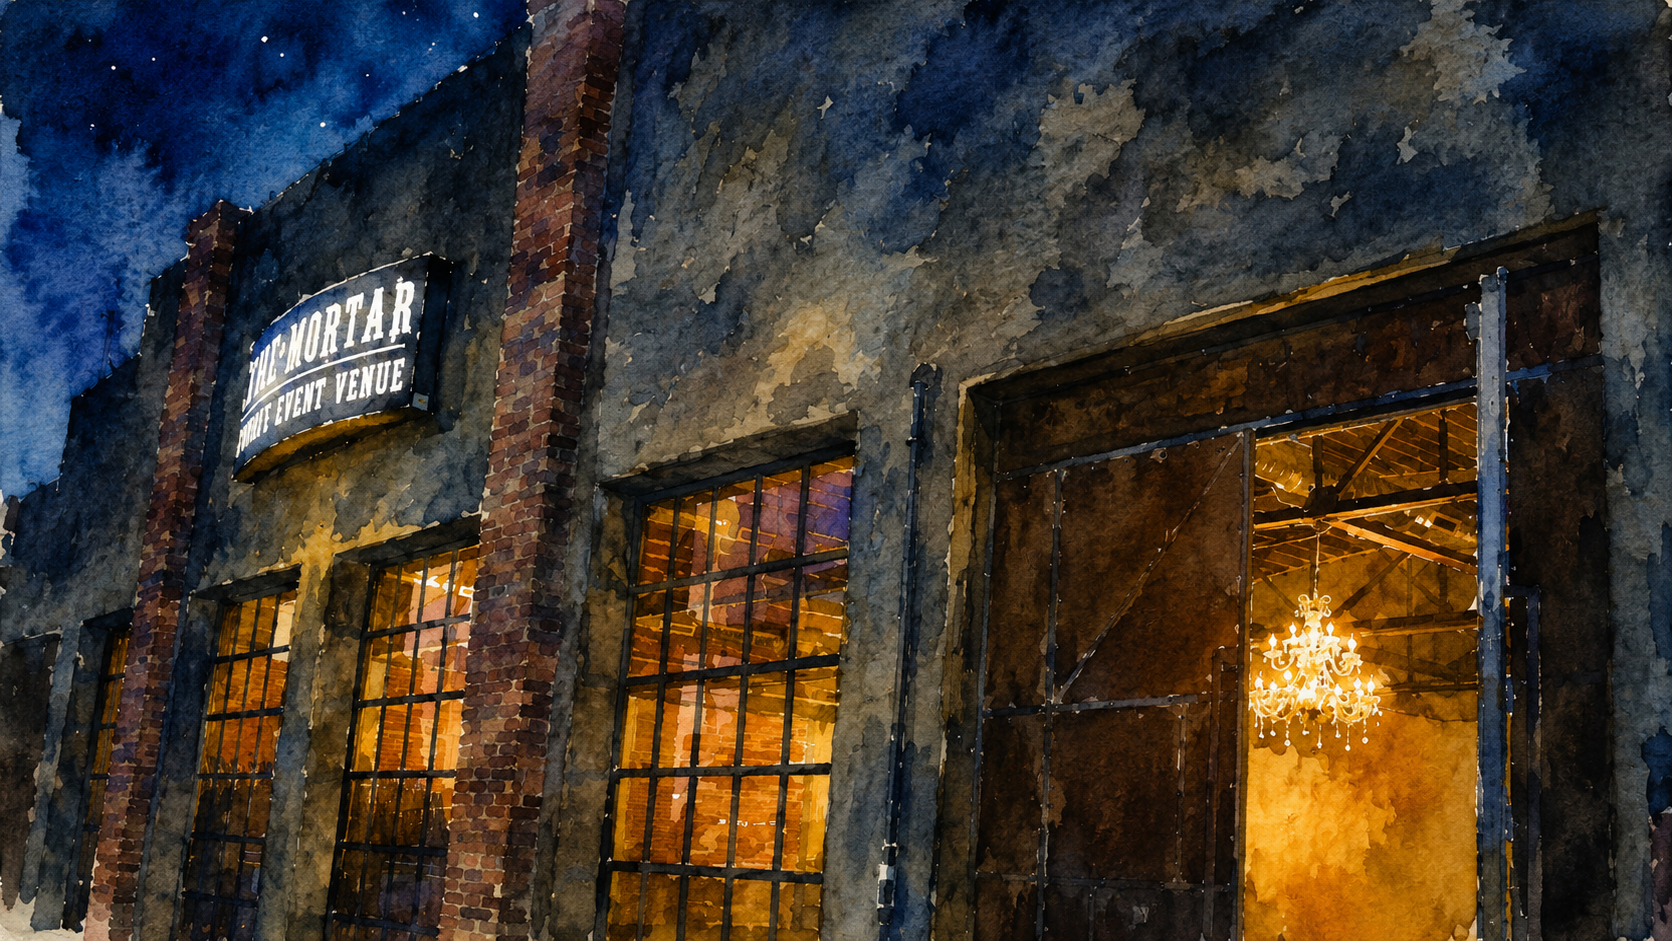
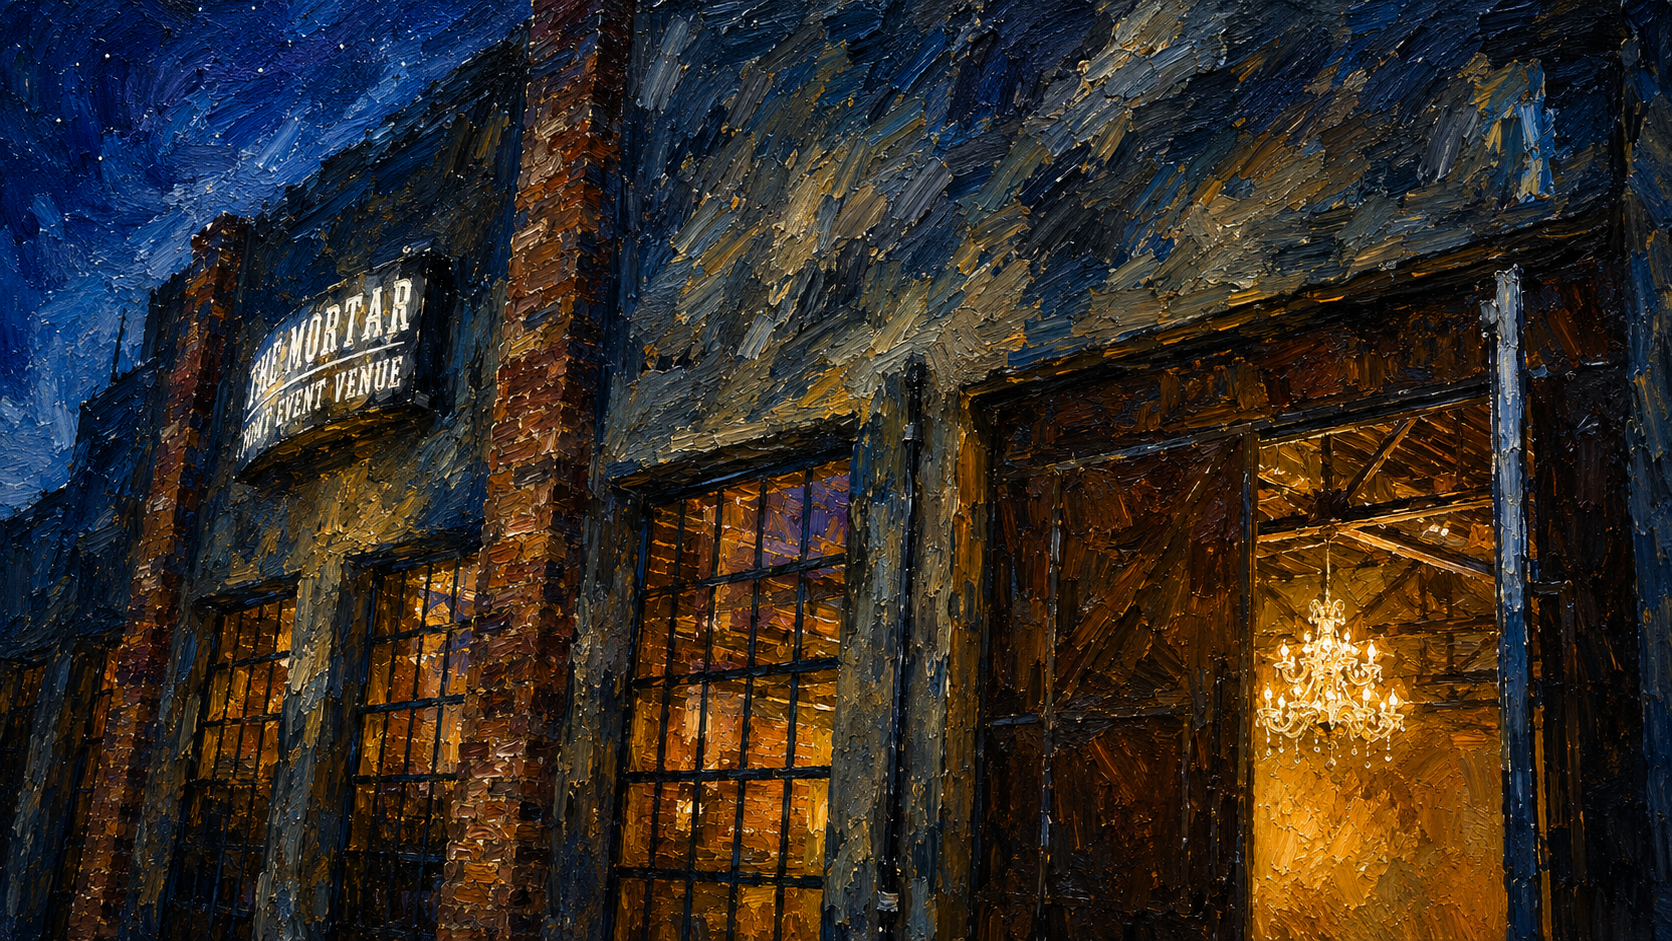
Replace watercolor images with oil paintings and add mirror hero
- Hero: swap plaster texture for mirror welcome sign, hide redundant text overlay
- Church: replace watercolor interior/exterior with oil paintings
- Reception: replace watercolor Brick & Mortar exterior and pavilion with oil paintings
- Cover art: swap to oil painting church exterior at night
- Update all og:image references from .jpg to .png
- Move source ChatGPT images to _archive

https://claude.ai/code/session_01RaWm7QXG7kyUcbVbn8H8Z4

diff --git a/styles.css b/styles.css
@@ -82,7 +82,7 @@
   .cover-art {
     position: absolute;
     inset: 0;
-    background-image: url(/images/main-1.jpg);
+    background-image: url(/images/main-1.png);
     background-size: contain;
     background-position: center 62%;
     background-repeat: no-repeat;
@@ -313,7 +313,7 @@
     position: relative;
     min-height: 100vh;
     width: 100%;
-    background: #f5f5f5;
+    background: #1a1610;
     overflow: hidden;
     display: flex;
     align-items: center;
@@ -322,7 +322,7 @@
   .hero-bg {
     position: absolute;
     inset: 0;
-    background-image: url(/images/plaster.png);
+    background-image: url(/images/hero-mirror.png);
     background-size: cover;
     background-position: center center;
     background-repeat: no-repeat;
@@ -338,8 +338,8 @@
     position: absolute;
     inset: 0;
     background:
-      radial-gradient(ellipse 80% 60% at 50% 50%, transparent 0%, rgba(245,245,245,0.5) 70%, rgba(245,245,245,0.92) 100%),
-      linear-gradient(180deg, rgba(245,245,245,0.4) 0%, transparent 25%, transparent 70%, rgba(245,245,245,0.95) 100%);
+      radial-gradient(ellipse 80% 60% at 50% 50%, transparent 0%, rgba(26,22,16,0.15) 70%, rgba(26,22,16,0.6) 100%),
+      linear-gradient(180deg, rgba(26,22,16,0.3) 0%, transparent 25%, transparent 70%, rgba(26,22,16,0.7) 100%);
     z-index: 1;
     pointer-events: none;
     opacity: 0;
@@ -349,6 +349,13 @@
     position: relative; z-index: 3;
     text-align: center; padding: 0 32px;
     max-width: 800px;
+    /* Visually hidden — mirror image contains the text; kept for screen readers */
+    clip: rect(0 0 0 0);
+    clip-path: inset(50%);
+    height: 1px;
+    width: 1px;
+    overflow: hidden;
+    white-space: nowrap;
     opacity: 0;
   }
   body.entered .hero-inner { animation: heroTextFade 1800ms ease-out 1400ms forwards; }
@@ -668,15 +675,14 @@
   }
   .ceremony-bleed .art-bg {
     width: 100%;
-    height: auto;
+    height: 100%;
     display: block;
-    mix-blend-mode: multiply;
-    filter: contrast(1.02);
+    object-fit: cover;
   }
   .ceremony-bleed .overlay {
     position: absolute;
     inset: 0;
-    background: linear-gradient(180deg, rgba(245,245,245,0.7) 0%, transparent 25%, transparent 70%, rgba(245,245,245,0.95) 100%);
+    background: linear-gradient(180deg, rgba(0,0,0,0.3) 0%, rgba(0,0,0,0.1) 25%, rgba(0,0,0,0.1) 70%, rgba(0,0,0,0.4) 100%);
     pointer-events: none;
   }
   .ceremony-bleed .content {

diff --git a/ceremony.html b/ceremony.html
@@ -21,13 +21,13 @@
 <meta property="og:title" content="The Wedding Day — Laura &amp; William" />
 <meta property="og:description" content="Saturday, the twentieth of March — ceremony at four o'clock, reception to follow. Central Chapel &amp; Odd Fellow, Wichita, Kansas." />
 <meta property="og:url" content="https://becoming-bergkamp.vercel.app/ceremony" />
-<meta property="og:image" content="https://becoming-bergkamp.vercel.app/images/main-2.jpg" />
+<meta property="og:image" content="https://becoming-bergkamp.vercel.app/images/main-2.png" />
 <meta property="og:locale" content="en_US" />
 
 <meta name="twitter:card" content="summary_large_image" />
 <meta name="twitter:title" content="The Wedding Day — Laura &amp; William" />
 <meta name="twitter:description" content="Saturday, the twentieth of March — ceremony at four o'clock, reception to follow. Central Chapel &amp; Odd Fellow, Wichita, Kansas." />
-<meta name="twitter:image" content="https://becoming-bergkamp.vercel.app/images/main-2.jpg" />
+<meta name="twitter:image" content="https://becoming-bergkamp.vercel.app/images/main-2.png" />
 
 <link rel="preconnect" href="https://fonts.googleapis.com" />
 <link rel="preconnect" href="https://fonts.gstatic.com" crossorigin />
@@ -57,7 +57,7 @@
 
   <!-- CEREMONY -->
   <section id="ceremony" class="ceremony-bleed">
-    <img class="art-bg" src="/images/main-3.jpg" alt="Chapel daytime exterior" loading="lazy" decoding="async" />
+    <img class="art-bg" src="/images/main-3.png" alt="Chapel interior with stained glass window" loading="lazy" decoding="async" />
     <div class="overlay"></div>
 
     <div class="content">
@@ -92,7 +92,7 @@
   <section class="lattice-section">
     <div class="lattice-grid">
       <div class="art-pane">
-        <img src="/images/main-4.jpg" alt="Chapel entryway with lattice windows" loading="lazy" decoding="async" />
+        <img src="/images/main-4.png" alt="Chapel exterior at sunset with lattice windows" loading="lazy" decoding="async" />
       </div>
       <div class="text-pane">
         <div class="kicker">A Detail</div>

diff --git a/honeymoon.html b/honeymoon.html
@@ -21,13 +21,13 @@
 <meta property="og:title" content="The Honeymoon — Laura &amp; William" />
 <meta property="og:description" content="In lieu of a gift — a contribution toward the honeymoon coastline." />
 <meta property="og:url" content="https://becoming-bergkamp.vercel.app/honeymoon" />
-<meta property="og:image" content="https://becoming-bergkamp.vercel.app/images/main-2.jpg" />
+<meta property="og:image" content="https://becoming-bergkamp.vercel.app/images/main-2.png" />
 <meta property="og:locale" content="en_US" />
 
 <meta name="twitter:card" content="summary_large_image" />
 <meta name="twitter:title" content="The Honeymoon — Laura &amp; William" />
 <meta name="twitter:description" content="In lieu of a gift — a contribution toward the honeymoon coastline." />
-<meta name="twitter:image" content="https://becoming-bergkamp.vercel.app/images/main-2.jpg" />
+<meta name="twitter:image" content="https://becoming-bergkamp.vercel.app/images/main-2.png" />
 
 <link rel="preconnect" href="https://fonts.googleapis.com" />
 <link rel="preconnect" href="https://fonts.gstatic.com" crossorigin />

diff --git a/index.html b/index.html
@@ -22,14 +22,14 @@
 <meta property="og:title" content="Laura &amp; William — 20 March 2027" />
 <meta property="og:description" content="A wedding celebration in Wichita, Kansas." />
 <meta property="og:url" content="https://becoming-bergkamp.vercel.app/" />
-<meta property="og:image" content="https://becoming-bergkamp.vercel.app/images/main-2.jpg" />
+<meta property="og:image" content="https://becoming-bergkamp.vercel.app/images/main-2.png" />
 <meta property="og:locale" content="en_US" />
 
 <!-- Twitter -->
 <meta name="twitter:card" content="summary_large_image" />
 <meta name="twitter:title" content="Laura &amp; William — 20 March 2027" />
 <meta name="twitter:description" content="A wedding celebration in Wichita, Kansas." />
-<meta name="twitter:image" content="https://becoming-bergkamp.vercel.app/images/main-2.jpg" />
+<meta name="twitter:image" content="https://becoming-bergkamp.vercel.app/images/main-2.png" />
 
 <!-- Fonts -->
 <link rel="preconnect" href="https://fonts.googleapis.com" />

diff --git a/rsvp.html b/rsvp.html
@@ -21,13 +21,13 @@
 <meta property="og:title" content="RSVP — Laura &amp; William" />
 <meta property="og:description" content="Kindly respond by the first of February, two thousand twenty seven." />
 <meta property="og:url" content="https://becoming-bergkamp.vercel.app/rsvp" />
-<meta property="og:image" content="https://becoming-bergkamp.vercel.app/images/main-2.jpg" />
+<meta property="og:image" content="https://becoming-bergkamp.vercel.app/images/main-2.png" />
 <meta property="og:locale" content="en_US" />
 
 <meta name="twitter:card" content="summary_large_image" />
 <meta name="twitter:title" content="RSVP — Laura &amp; William" />
 <meta name="twitter:description" content="Kindly respond by the first of February, two thousand twenty seven." />
-<meta name="twitter:image" content="https://becoming-bergkamp.vercel.app/images/main-2.jpg" />
+<meta name="twitter:image" content="https://becoming-bergkamp.vercel.app/images/main-2.png" />
 
 <link rel="preconnect" href="https://fonts.googleapis.com" />
 <link rel="preconnect" href="https://fonts.gstatic.com" crossorigin />

diff --git a/travel.html b/travel.html
@@ -21,13 +21,13 @@
 <meta property="og:title" content="Travel & Stay — Laura &amp; William" />
 <meta property="og:description" content="Travel and lodging for the wedding of Laura Restum and William Bergkamp in Wichita, Kansas." />
 <meta property="og:url" content="https://becoming-bergkamp.vercel.app/travel" />
-<meta property="og:image" content="https://becoming-bergkamp.vercel.app/images/main-2.jpg" />
+<meta property="og:image" content="https://becoming-bergkamp.vercel.app/images/main-2.png" />
 <meta property="og:locale" content="en_US" />
 
 <meta name="twitter:card" content="summary_large_image" />
 <meta name="twitter:title" content="Travel & Stay — Laura &amp; William" />
 <meta name="twitter:description" content="Travel and lodging for the wedding of Laura Restum and William Bergkamp in Wichita, Kansas." />
-<meta name="twitter:image" content="https://becoming-bergkamp.vercel.app/images/main-2.jpg" />
+<meta name="twitter:image" content="https://becoming-bergkamp.vercel.app/images/main-2.png" />
 
 <link rel="preconnect" href="https://fonts.googleapis.com" />
 <link rel="preconnect" href="https://fonts.gstatic.com" crossorigin />

diff --git a/wedding-party.html b/wedding-party.html
@@ -21,13 +21,13 @@
 <meta property="og:title" content="The Wedding Party — Laura &amp; William" />
 <meta property="og:description" content="The Bergkamp Almanac — parents, wedding party, family, and the menagerie." />
 <meta property="og:url" content="https://becoming-bergkamp.vercel.app/wedding-party" />
-<meta property="og:image" content="https://becoming-bergkamp.vercel.app/images/main-2.jpg" />
+<meta property="og:image" content="https://becoming-bergkamp.vercel.app/images/main-2.png" />
 <meta property="og:locale" content="en_US" />
 
 <meta name="twitter:card" content="summary_large_image" />
 <meta name="twitter:title" content="The Wedding Party — Laura &amp; William" />
 <meta name="twitter:description" content="The Bergkamp Almanac — parents, wedding party, family, and the menagerie." />
-<meta name="twitter:image" content="https://becoming-bergkamp.vercel.app/images/main-2.jpg" />
+<meta name="twitter:image" content="https://becoming-bergkamp.vercel.app/images/main-2.png" />
 
 <link rel="preconnect" href="https://fonts.googleapis.com" />
 <link rel="preconnect" href="https://fonts.gstatic.com" crossorigin />